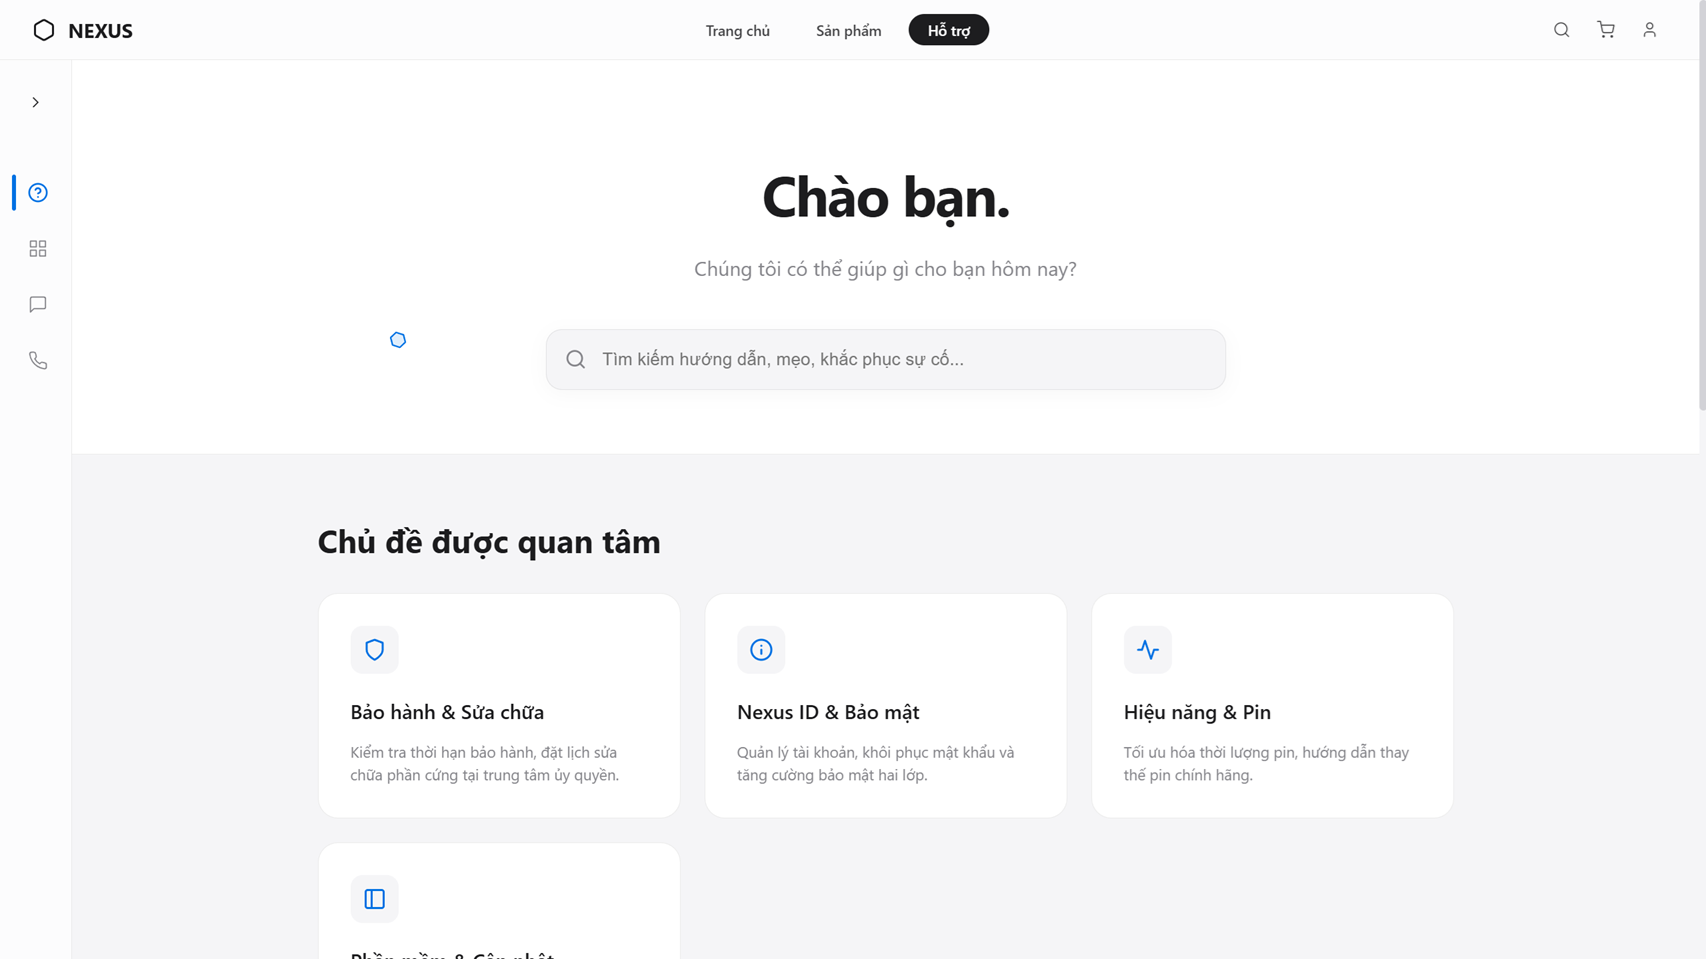
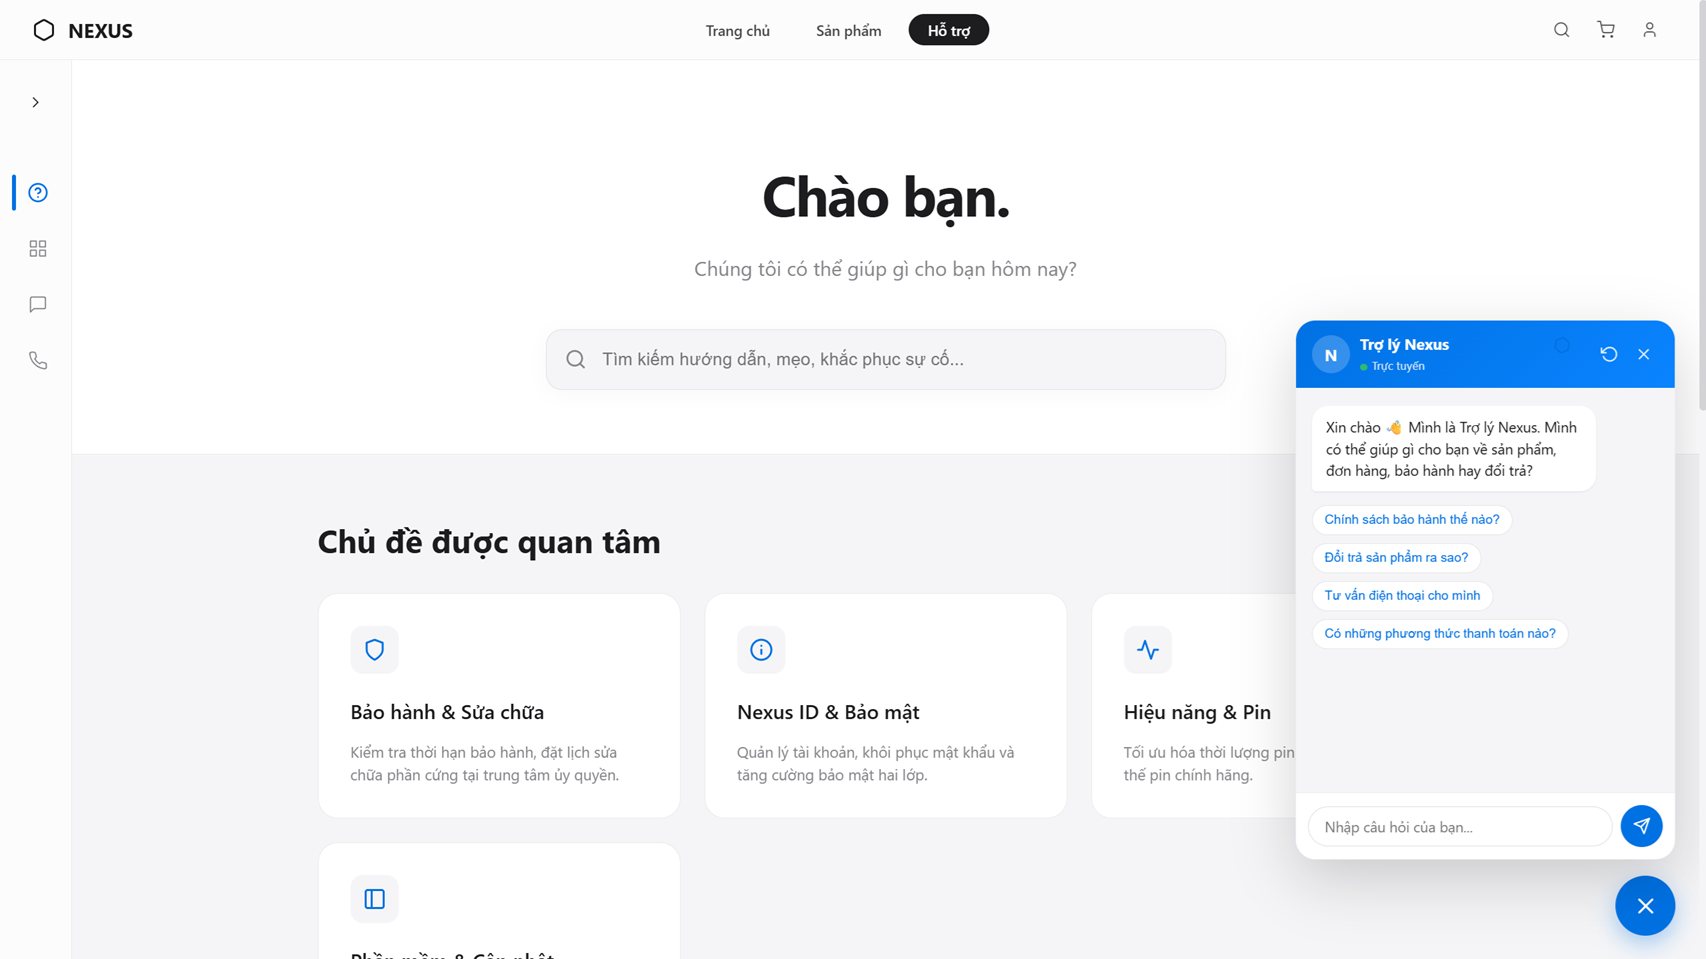
cap nhat readme

diff --git a/cuoiki2-65133147-web2-nexus-store/README.md b/cuoiki2-65133147-web2-nexus-store/README.md
@@ -117,18 +117,19 @@ Presentation (Thymeleaf templates)
 Spring Security (session filter)
     ↓
 Controllers
-  ├── HomeController
-  ├── ProductController
-  ├── CartController
-  ├── AuthController
-  └── AdminController
+  ├── WebController          — trang chủ, điều hướng chung
+  ├── ShopController         — danh sách & chi tiết sản phẩm, tìm kiếm
+  ├── AuthController         — đăng ký / đăng nhập / đăng xuất
+  ├── AdminController        — toàn bộ trang quản trị
+  └── SupportChatController  — API chatbot AI (/api/support/chat)
     ↓
 Services
   ├── OrderService      — tạo đơn hàng, gọi EmailService
   ├── CartService
   ├── UserService
-  ├── PaymentService
-  └── EmailService      — gửi email async (Gmail SMTP)
+  ├── PaymentService    — quản lý PaymentBank & PaymentCard
+  ├── EmailService      — gửi email async (Gmail SMTP)
+  └── AiChatService     — gọi Groq API, quản lý lịch sử hội thoại
     ↓
 Repositories (Spring Data JPA)
     ↓
@@ -315,6 +316,80 @@ Hoặc sửa trực tiếp `groq.api.key` trong `application.properties`. Đổi
 - Đổi `spring.jpa.hibernate.ddl-auto` sang `validate` cho môi trường production.
 - Bật CSRF, HTTPS, và kiểm tra session fixation trước khi deploy thật.
 - Không commit `GROQ_API_KEY` lên Git — dùng biến môi trường.
+
+---
+
+## 16. Mô hình dữ liệu (Entity)
+
+| Entity | Bảng DB | Mô tả |
+|---|---|---|
+| `User` | `users` | Tài khoản người dùng (role: `admin` / `customer`) |
+| `Product` | `products` | Sản phẩm, liên kết với `Category` |
+| `ProductColor` | `product_colors` | Màu sắc theo sản phẩm |
+| `Category` | `categories` | Danh mục sản phẩm |
+| `CartItem` | `cart_items` | Sản phẩm trong giỏ hàng (liên kết `User`, `Product`, `ProductColor`) |
+| `Order` | `orders` | Đơn hàng — lưu tổng tiền, địa chỉ, trạng thái, email giao hàng |
+| `OrderItem` | `order_items` | Chi tiết từng sản phẩm trong đơn hàng |
+| `PaymentBank` | `payment_banks` | Tài khoản ngân hàng liên kết với `User` (bankName, bankAccount, bankOwner, bankBranch) |
+| `PaymentCard` | `payment_cards` | Thẻ thanh toán liên kết với `User` (cardHolder, cardNumber, cardExpiry, cardNetwork) |
+
+> File `nexusdb.sql` (trong repo) chứa schema đầy đủ và dữ liệu mẫu.
+
+---
+
+## 17. Biến môi trường
+
+| Biến | Bắt buộc | Ý nghĩa |
+|---|---|---|
+| `GROQ_API_KEY` | Không (chatbot fallback nếu thiếu) | API key Groq Llama |
+| `spring.datasource.password` | Có | Mật khẩu MySQL |
+| `spring.mail.username` | Có (nếu dùng email) | Gmail dùng để gửi |
+| `spring.mail.password` | Có (nếu dùng email) | Gmail App Password |
+
+Có thể đặt trong `application.properties` hoặc qua biến môi trường hệ điều hành (khuyến nghị cho production).
+
+---
+
+## 18. H2 Console (Dev)
+
+H2 in-memory console có thể truy cập tại:
+
+```
+http://localhost:8080/h2-console
+```
+
+Khi dùng H2 (không phải MySQL), chỉnh `application.properties`:
+```properties
+spring.datasource.url=jdbc:h2:mem:testdb
+spring.datasource.driver-class-name=org.h2.Driver
+spring.h2.console.enabled=true
+```
+
+---
+
+## 19. Testing
+
+Dự án có sẵn lớp test Spring Boot mặc định:
+
+```
+src/test/java/.../Cuoiki265133147Web2NexusStoreApplicationTests.java
+```
+
+Chạy tất cả test:
+```bash
+./mvnw test
+```
+
+Bỏ qua test khi build:
+```bash
+./mvnw -DskipTests package
+```
+
+---
+
+## 20. License
+
+Dự án phục vụ mục đích học tập — môn **Phát triển Ứng dụng Web 2**, Trường Đại học Nha Trang.
 
 ---
 